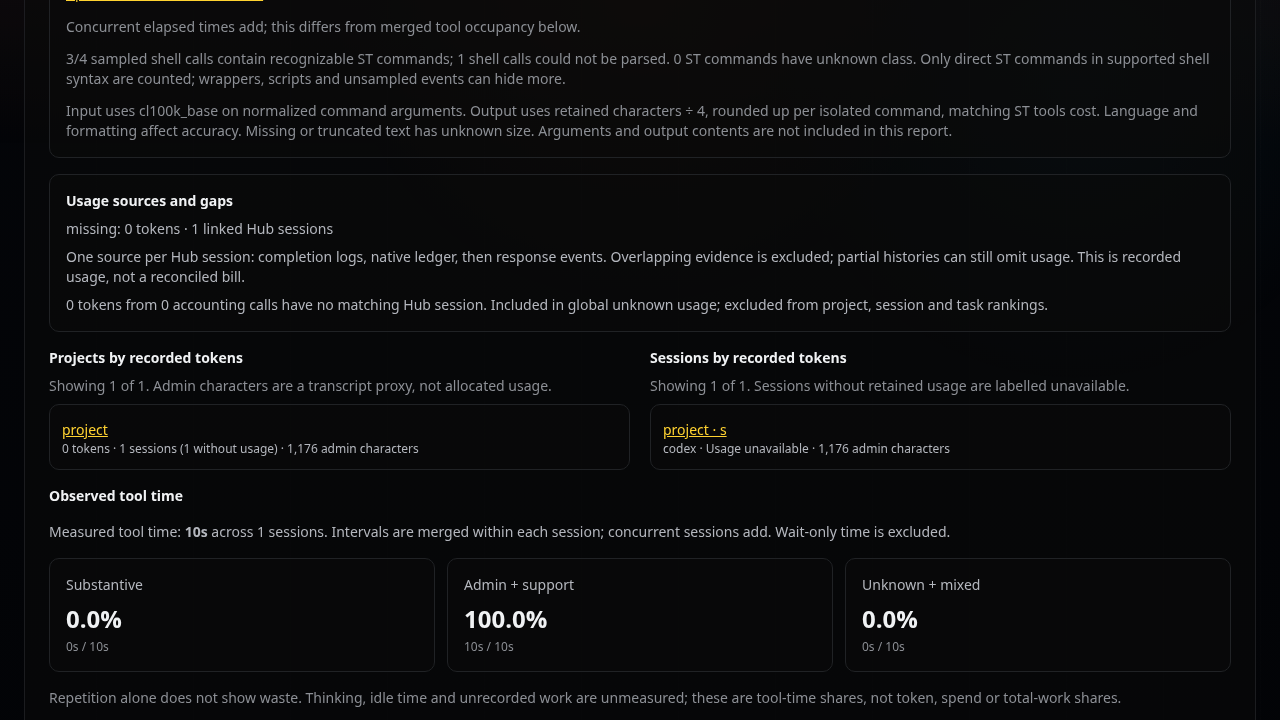
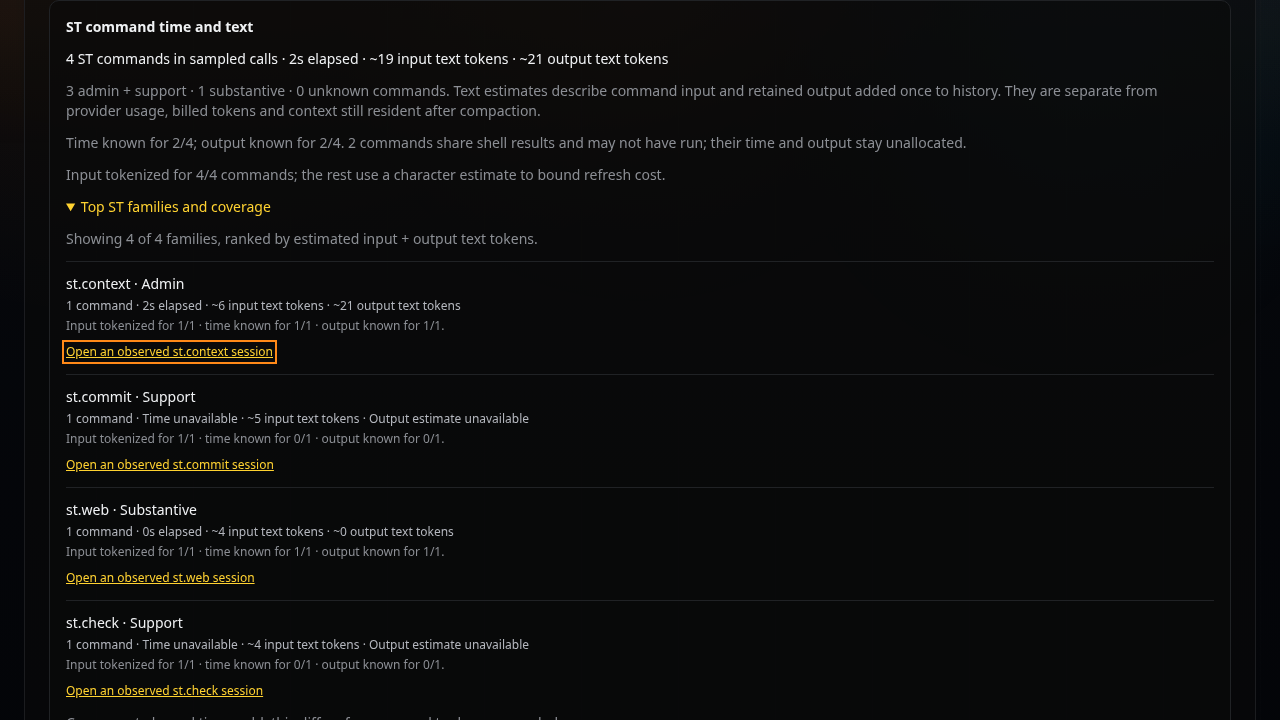
Bound Activity tokenization and expose input estimate coverage

diff --git a/frontend/src/app/admin/components/StCommandActivity.tsx b/frontend/src/app/admin/components/StCommandActivity.tsx
@@ -67,6 +67,11 @@ export function StCommandActivity({
             {sampleCapped &&
               ' Event sample capped; earlier calls may be missing.'}
           </p>
+          <p className="section-copy">
+            Input tokenized for {commands.commands_with_tokenized_input}/
+            {commands.commands} commands; the rest use a character estimate to
+            bound refresh cost.
+          </p>
           {commands.commands === 0 && (
             <p className="section-copy">
               No recognizable ST commands in the sampled calls. Unrecorded or
@@ -98,8 +103,10 @@ export function StCommandActivity({
                     tokens · {output(row)}
                   </p>
                   <p className="text-xs text-slate-400">
-                    Time known for {row.commands_with_duration}/{row.commands} ·{' '}
-                    output known for {row.commands_with_output}/{row.commands}.
+                    Input tokenized for {row.commands_with_tokenized_input}/
+                    {row.commands} · time known for {row.commands_with_duration}
+                    /{row.commands} · output known for{' '}
+                    {row.commands_with_output}/{row.commands}.
                   </p>
                   {row.sample_session_id && row.sample_project_id && (
                     <Link
@@ -128,11 +135,13 @@ export function StCommandActivity({
               </p>
               <p className="section-copy">
                 Input uses {commands.input_token_encoding} on normalized command
-                arguments. Output uses retained characters ÷{' '}
-                {commands.output_characters_per_token}, rounded up per isolated
-                command, matching ST tools cost. Language and formatting affect
-                accuracy. Missing or truncated text has unknown size. Arguments
-                and output contents are not included in this report.
+                arguments within tokenizer limits; other input uses characters ÷{' '}
+                {commands.output_characters_per_token}, rounded up. Output uses
+                retained characters ÷ {commands.output_characters_per_token},
+                rounded up per isolated command, matching ST tools cost.
+                Language and formatting affect accuracy. Missing or truncated
+                text has unknown size. Arguments and output contents are not
+                included in this report.
               </p>
             </div>
           </details>

diff --git a/frontend/src/__tests__/activity-cost.test.tsx b/frontend/src/__tests__/activity-cost.test.tsx
@@ -146,6 +146,11 @@ describe('activity observations', () => {
     expect(screen.getByText('st.web · Substantive')).toBeInTheDocument()
     expect(screen.getByText('st.context · Admin')).toBeInTheDocument()
     expect(screen.getByText('st.check · Support')).toBeInTheDocument()
+    expect(
+      screen.getByText(
+        /Input tokenized for 4\/4 commands; the rest use a character estimate/,
+      ),
+    ).toBeInTheDocument()
     expect(screen.getAllByText(/Time unavailable/)).toHaveLength(2)
     expect(
       screen.getByRole('link', { name: 'Open an observed st.context session' }),
@@ -182,6 +187,39 @@ describe('activity observations', () => {
             { ...stSnapshot.st_commands.families[0], category: 'invented' },
           ],
         },
+      }),
+    ).toThrow()
+  })
+
+  it('shows input fallback coverage without dropping measured time or output', () => {
+    const value = {
+      ...stSnapshot,
+      st_commands: {
+        ...stSnapshot.st_commands,
+        commands_with_tokenized_input: 1,
+        families: stSnapshot.st_commands.families.map((row, index) => ({
+          ...row,
+          commands_with_tokenized_input: index === 0 ? 1 : 0,
+        })),
+      },
+    }
+    const data = parseActivityCost(value)
+    if (!data) throw new Error('Missing synthetic Activity snapshot')
+    render(panel(data))
+    expect(
+      screen.getByText(
+        /Input tokenized for 1\/4 commands; the rest use a character estimate/,
+      ),
+    ).toBeInTheDocument()
+    expect(
+      screen.getByText(
+        /4 ST commands in sampled calls · 2s elapsed · ~19 input text tokens · ~21 output text tokens/,
+      ),
+    ).toBeInTheDocument()
+    expect(() =>
+      parseActivityCost({
+        ...value,
+        st_commands: { ...value.st_commands, commands_with_tokenized_input: 5 },
       }),
     ).toThrow()
   })

diff --git a/frontend/src/lib/api/activity-cost.ts b/frontend/src/lib/api/activity-cost.ts
@@ -53,6 +53,7 @@ export interface StCommandMetrics {
   measured_seconds: number
   input_tokens_estimate: number
   output_tokens_estimate: number
+  commands_with_tokenized_input: number
   commands_with_duration: number
   commands_with_output: number
   shared_commands: number
@@ -250,10 +251,12 @@ function stMetrics(value: unknown) {
       'measured_seconds',
       'input_tokens_estimate',
       'output_tokens_estimate',
+      'commands_with_tokenized_input',
       'commands_with_duration',
       'commands_with_output',
       'shared_commands',
     ]) &&
+    Number(value.commands_with_tokenized_input) <= Number(value.commands) &&
     Number(value.commands_with_duration) + Number(value.shared_commands) <=
       Number(value.commands) &&
     Number(value.commands_with_output) + Number(value.shared_commands) <=

diff --git a/backend/app/services/st_activity.py b/backend/app/services/st_activity.py
@@ -110,13 +110,14 @@ def _encoding() -> tiktoken.Encoding:
 
 def _metrics() -> dict:
     return dict.fromkeys(("commands", "measured_seconds", "input_tokens_estimate", "output_tokens_estimate",
-                          "commands_with_duration", "commands_with_output", "shared_commands"), 0)
+                          "commands_with_tokenized_input", "commands_with_duration", "commands_with_output", "shared_commands"), 0)
 
 
 def summarize_st_commands(tools: dict, results: dict, *, sessions: dict, limit: int) -> dict:
     totals = _metrics()
     families: dict[tuple[str, str], dict] = {}
     shell_calls = unparsed = calls_with_st = 0
+    remaining = POLICY["max_tokenized_characters_per_snapshot"]
     for key, tool in tools.items():
         if tool.event_type != "tool_use" or (tool.tool_name or "").split(".")[-1].lower() not in {"bash", "exec_command", "run_command"}:
             continue
@@ -141,9 +142,16 @@ def summarize_st_commands(tools: dict, results: dict, *, sessions: dict, limit: 
             has_duration = not shared and isinstance(duration, int) and not isinstance(duration, bool) and duration >= 0
             returned = getattr(result, "returned_characters", None)
             has_output = not shared and isinstance(returned, int) and not isinstance(returned, bool) and returned >= 0
+            normalized = shlex.join(words)
+            tokenized = len(normalized) <= min(POLICY["max_tokenized_characters_per_command"], remaining)
+            if tokenized:
+                input_tokens = len(_encoding().encode(normalized, disallowed_special=()))
+                remaining -= len(normalized)
+            else:
+                input_tokens = math.ceil(len(normalized) / POLICY["output_characters_per_token"])
             metrics = {
                 "commands": 1, "shared_commands": int(shared),
-                "input_tokens_estimate": len(_encoding().encode(shlex.join(words), disallowed_special=())),
+                "input_tokens_estimate": input_tokens, "commands_with_tokenized_input": int(tokenized),
                 "output_tokens_estimate": math.ceil(returned / POLICY["output_characters_per_token"]) if has_output else 0,
                 "measured_seconds": int(duration) / 1000 if has_duration else 0,
                 "commands_with_duration": int(has_duration), "commands_with_output": int(has_output),
@@ -165,7 +173,7 @@ def summarize_st_commands(tools: dict, results: dict, *, sessions: dict, limit: 
         "input_token_encoding": POLICY["input_token_encoding"],
         "output_characters_per_token": POLICY["output_characters_per_token"],
         "count_basis": "Recognizable ST commands in sampled shell source, not proof of execution. Conditional commands may not run; scripts and unsupported syntax can hide more commands.",
-        "input_token_basis": "Reference tokenizer on normalized ST command argv, once per recognizable command. Excludes tool JSON framing and other shell text; text estimate, not provider usage.",
+        "input_token_basis": "Reference tokenizer on normalized ST command argv within per-command and per-snapshot character budgets. Beyond either budget, ceiling of normalized characters / output_characters_per_token; commands_with_tokenized_input exposes method coverage. Excludes tool JSON framing and other shell text; text estimate, not provider usage.",
         "output_token_basis": f"Ceiling of retained returned characters / {POLICY['output_characters_per_token']} per isolated invocation, matching ST tools cost's character approximation. Output contents are not fetched or tokenized. Language and formatting change accuracy; missing, truncated or shared output has unknown size.",
         "time_basis": "Sum of reported elapsed durations for isolated ST commands, including zero. Concurrent calls add; this is not union occupancy or agent thinking time. Shared shell durations are unallocated.",
     }

diff --git a/backend/tests/services/test_st_activity.py b/backend/tests/services/test_st_activity.py
@@ -104,3 +104,28 @@ def test_backend_st_fixture_reconciles_across_the_frontend_boundary():
     assert st["output_tokens_estimate"] == 21
 
 
+def test_tokenizer_bounds_fall_back_without_losing_count_time_or_output(monkeypatch):
+    from app.services import st_activity
+
+    monkeypatch.setitem(st_activity.POLICY, "max_tokenized_characters_per_command", 8)
+    monkeypatch.setitem(st_activity.POLICY, "max_tokenized_characters_per_snapshot", 10)
+    seen = []
+    def encode(text, **kwargs):
+        seen.append(text)
+        return list(text)
+    monkeypatch.setattr(st_activity, "_encoding", lambda: Row(encode=encode))
+    result = snapshot([
+        event(call="one", tool_input={"command": ["st", "list"]}),
+        event("tool_result", call="one", duration_ms=0, returned_characters=0),
+        event(call="two", tool_input={"command": ["st", "show"]}),
+        event(call="large", tool_input={"command": ["st", "sessions", "send", "synthetic", "a" * 120000]}),
+        event("tool_result", call="large", seconds=2, returned_characters=80),
+    ])["st_commands"]
+    assert seen == ["st list"]  # Second small call exhausts snapshot budget; large call exceeds per-command budget.
+    assert result["commands"] == 3
+    assert result["commands_with_tokenized_input"] == 1
+    assert result["input_tokens_estimate"] == 7 + 2 + (len("st sessions send synthetic ") + 120000 + 3) // 4
+    assert result["commands_with_duration"] == result["commands_with_output"] == 2
+    assert result["measured_seconds"] == 2 and result["output_tokens_estimate"] == 20
+
+

diff --git a/docs/audits/st-activity-2026-10-22/README.md b/docs/audits/st-activity-2026-10-22/README.md
@@ -1,6 +1,6 @@
 # ST Activity: isolated review checkpoint
 
-Task `task-41d2b7c4d1e542e4`, branch `review/st-activity-20261022`, based on Agent Hub `941a602b9`. No landing, deployment or publication. The coordinator owns independent GPT-6.1 Sol xhigh review, integration and live verification. Following the coordinator's scope clarification, this checkpoint finishes the Activity read side; separate ST background capture and subsequent trend/goal integration remain with the coordinator.
+Task `task-41d2b7c4d1e542e4`, branch `review/st-activity-20261022`, based on Agent Hub `941a602b9`. No landing, deployment or publication. Independent review passed after one performance correction (below). The coordinator owns integration and live verification. Following the coordinator's scope clarification, this checkpoint finishes the Activity read side; separate ST background capture and subsequent trend/goal integration remain with the coordinator.
 
 Activity now shows ST command count, elapsed time and input/output text estimates directly below its existing accounting cards. A native disclosure ranks safe command families by estimated text footprint, shows each family's class and coverage, and links to a source-backed session. It reuses the existing bounded hotspot API and retained session events. No ST invocation code, new ledger, raw-output query, database schema, runtime command output or prompt injection changes.
 
@@ -8,7 +8,7 @@ Activity now shows ST command count, elapsed time and input/output text estimate
 
 - `commands`: recognizable ST command entries in sampled shell source, **not proof that conditional commands ran**. `calls_with_st` counts containing shell calls; these are different denominators. `shell_calls_unparsed`, `shared_commands`, unknown classes and the existing event cap remain explicit.
 - `measured_seconds`: sum of reported nonnegative integer durations for isolated ST calls, including known zero. Concurrent calls add. This differs from the existing union of tool occupancy. Shared shell duration/output is never divided or assigned to an individual command.
-- `input_tokens_estimate`: reference tokenizer count of normalized command argv using the existing `cl100k_base` reference encoding. Protocol/tool JSON framing and other shell text are excluded. Special-token-looking strings are ordinary text.
+- `input_tokens_estimate`: reference tokenizer count of normalized command argv using the existing `cl100k_base` reference encoding, bounded to 4,096 characters per command and 65,536 per snapshot. Beyond either budget, normalized characters / 4 rounded up supplies the estimate. `commands_with_tokenized_input` exposes exact method coverage globally and per family in the API/UI. Counts, elapsed time and output observations are preserved. Protocol/tool JSON framing and other shell text are excluded. Special-token-looking strings are ordinary text.
 - `output_tokens_estimate`: ceiling of retained returned-character count / 4 for each isolated call. This uses ST tools cost's existing character approximation; output contents are not fetched or tokenized. Missing output has unknown size; known empty output is zero. This measures retained text only and cannot reconstruct truncated/unretained text.
 - Family class and safe names live in `activity_policy.json`, shared by existing Activity classification and the new ST summary. Old admin/support families remain; tools/aico/agents/export/pulse are recognized as admin, vcs as support, search/web/browser/graphify as substantive, db/wiki/help as unknown. An unrecognized verb becomes `st.unknown`; arbitrary arguments never become display labels. Class does not establish necessity or waste.
 - Existing exact wrapper suppression and `(session, call_id)` deduplication are reused. Ambiguous wrapper correlations can still duplicate evidence. Orphan results cannot establish an ST command. Session/project drill links come only from retained Hub session identities. Durable task-binding and provider-usage precedence rules are unchanged; no causal billed-token allocation was added.
@@ -33,17 +33,25 @@ Sanitized calibration against the available reference tokenizer: English status,
 
 ## Overhead
 
-[Local synthetic microbenchmark](overhead.json): 1,000 calls / 2,000 events, five warm repetitions. The same snapshot function ran with and without only the new ST summary. Median CPU elapsed was 21.547 ms without and 39.165 ms with: +17.618 ms per Activity snapshot. Cold tokenizer initialization took 74.558 ms in the benchmark process. The summary added 1,563 compact JSON bytes with one family. This excludes database and HTTP latency; it is not a production API benchmark or a full-cap scale measurement.
+[Local synthetic microbenchmark after the correction](overhead.json): 1,000 calls / 2,000 events, five warm repetitions. The same snapshot function ran with and without only the new ST summary. Median CPU elapsed was 22.958 ms without and 39.586 ms with: +16.628 ms per Activity snapshot. Cold tokenizer initialization took 77.325 ms in the benchmark process. The summary added 1,801 compact JSON bytes with one family. This excludes database and HTTP latency; it is not a production API benchmark or a full-cap scale measurement.
 
 ST's executable path is unchanged, so this read-side checkpoint adds zero per-command output bytes, agent context tokens or network calls by construction. The measured overhead is paid when Activity is requested. It does **not** measure the separately planned ST capture overhead.
 
 ## Checks and rendered review
 
-`st check --quick --changed-only`: architecture, Ruff, Python types, **29 backend tests**, Biome, TypeScript, **15 frontend tests**, gitleaks pass. The commit runs the managed gate again. Regression coverage includes shared/conditional shell results, quote/operator handling, unsupported syntax, safe labels, wrapper/dedup/orphan handling, unknown classes, zero/missing measurements, fixture reconciliation, existing task links, older-server unavailable data, invalid API metrics, disclosure and source links. Existing loading/error/stale/retry tests remain passing. Checks report the expected isolated-worktree registry identity qualification.
+Managed quick gates pass architecture, Ruff, Python types, Biome, TypeScript, **16 frontend tests** and gitleaks. The explicit combined backend gate passes **30 tests** across existing Activity accounting and ST regressions; the focused changed-only gate selects the **13 ST tests** after the first checkpoint. The commit runs the managed gate again. Regression coverage includes shared/conditional shell results, quote/operator handling, unsupported syntax, safe labels, wrapper/dedup/orphan handling, unknown classes, zero/missing measurements, fixture reconciliation, existing task links, older-server unavailable data, invalid API metrics, disclosure and source links. The tokenizer-bound regression records encoder inputs and checks both budgets without losing measurements. Existing loading/error/stale/retry tests remain passing. Checks report the expected isolated-worktree registry identity qualification.
 
-The actual Activity component was rendered with the synthetic API sample to standalone HTML using the installed TSX loader and existing main-checkout built CSS. Managed isolated Chrome observed 1280×720 desktop and 390×844 phone layouts, without horizontal overflow. Clicking the disclosure and pressing Enter closed/reopened it; Tab reached the first session link with visible focus. Hrefs were inspected, not followed into a live session. Empty, unavailable and capped ST states were rendered and their text checked. [Desktop](desktop.png), [phone](mobile.png), and [rendered text/coverage](rendered.json) are retained. Capture time: 2026-10-22 around 16:51–16:53 UTC; explicit dark theme, no Dark Reader in this browser session. Shared design guide revision 3 and existing product tokens were used; no Agent Hub copy profile exists, so copy follows owner voice.
+The actual Activity component was rendered with the synthetic API sample to standalone HTML using the installed TSX loader and existing main-checkout built CSS. Managed isolated Chrome observed 1280×720 desktop and 390×844 phone layouts, without horizontal overflow. Clicking the disclosure and pressing Enter closed/reopened it; Tab reached the first session link with visible focus. Hrefs were inspected, not followed into a live session. Empty, unavailable and capped ST states were rendered and their text checked; fallback coverage was recaptured after the correction. [Desktop](desktop.png), [phone](mobile.png), and [rendered text/coverage](rendered.json) are retained. Initial captures: 2026-10-22 around 16:51–16:53 UTC; final captures after the correction around 17:08 UTC. Explicit dark theme, no Dark Reader in this browser session. Shared design guide revision 3 and existing product tokens were used; no Agent Hub copy profile exists, so copy follows owner voice.
 
 These are standalone component observations, **not** authenticated live API, production PostgreSQL, full Next.js navigation, or post-deployment evidence. The coordinator retains live verification.
+
+## Independent review
+
+One fresh native verifier was requested as GPT-6.1 Sol xhigh; that route was accepted by the client. Delivered model/effort identity is not independently exposed. It inspected the diff, raw managed check receipts, cross-boundary fixture, rendered artifacts and overhead report.
+
+The first review found one P2: full-argv tokenization took 4,068 ms for a synthetic 120,000-character message argument. Row caps do not bound bytes. The correction adds the configured per-command/snapshot budgets and honest character-fallback coverage described above. In the verifier's canonical `st check cleanroom` follow-up, the same case took 149.961 ms with its command retained and fallback exposed. A boundary probe retained 20 commands while encoding exactly 16 × 4,096 = 65,536 characters (maximum encoded command 4,096); total ST summary time was 100.468 ms. These are independently reported local synthetic timings, not production latency. Source parsing and existing argument fetches still scale with retained bytes; this is a tokenizer-work bound, not a total-request resource guarantee.
+
+The second scoped review returned **PASS: P2 resolved, no remaining defect found**. It confirmed count/duration/known-zero/output semantics, regression and API/UI method coverage, and inspected the passing 13 ST / 16 frontend receipts. No third review round was requested. Probe stdout is retained in the native review tool results, not a separate repository artifact. Live integration and separate ST capture remain outside the verdict.
 
 ## Gaps for the ST capture integration
 
